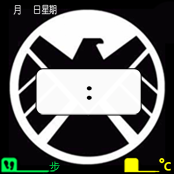
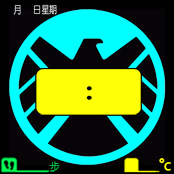
2017.02.27  生成神盾局2.0表盘  版本号：2.0.170227

diff --git a/README.md b/README.md
@@ -7,3 +7,7 @@
 更新：1.制作完成神盾局背景
       2.添加时间、日期、步数、气温四项数据
 	  3.添加锁屏、蓝牙、电量等图标
+	  
+# 2017.02.27  生成神盾局2.0表盘  版本号：2.0.170227
+更新：1.增加解锁背景变化，通过设置锁屏图标来实现
+      2.修复锁屏下蓝牙图标不可见问题，设置所在区域为透明
